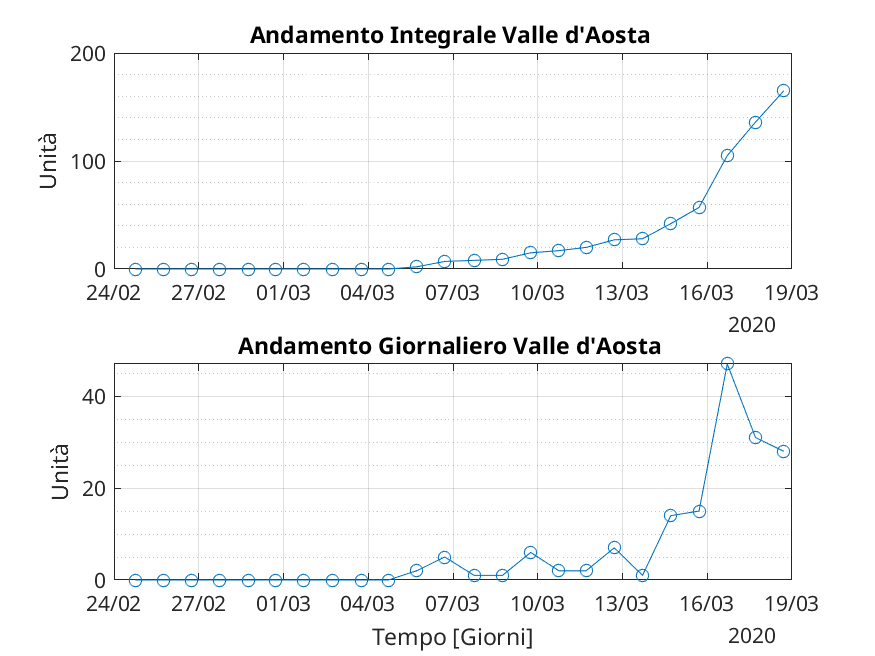
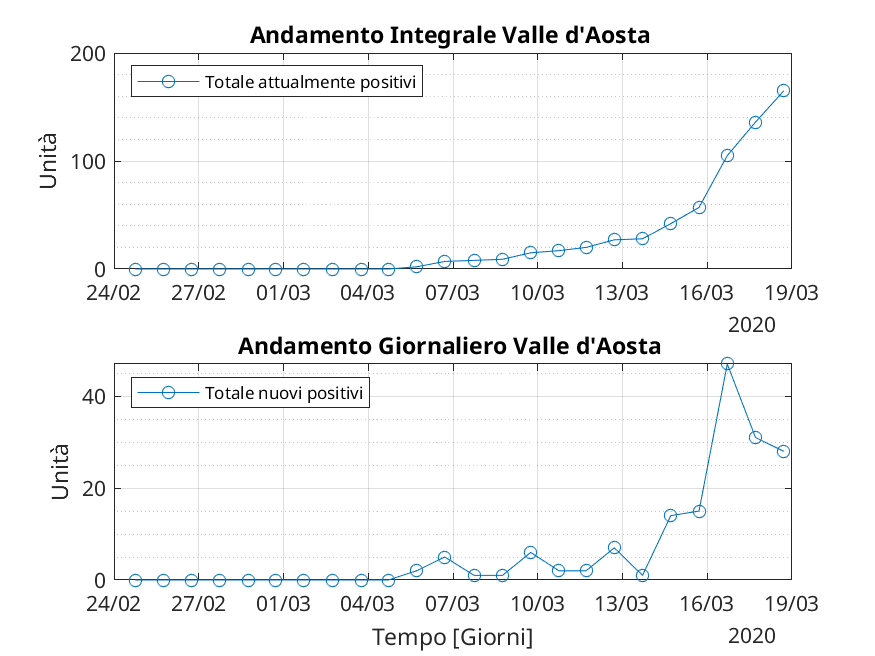
18-03-2020

Changed region(s): [[0.1851, 0.0915, 0.4937, 0.1524], [0.1851, 0.5793, 0.432, 0.6098]]

diff --git a/plotCOVID.m b/plotCOVID.m
@@ -54,6 +54,7 @@ plot (nazionale_data, nazionale_nuoviPos,'-o')
 title ('Andamento giornaliero Nazionale')
 xlabel('Tempo [Giorni]') 
 ylabel('Unità')
+legend("Totale nuovi positivi",'Location','northwest')
 grid on
 grid minor
 
@@ -96,6 +97,7 @@ for i = 1:dim
     title (sprintf('Andamento Integrale %s ', target))
     %xlabel('Tempo [Giorni]')
     ylabel('Unità')
+    legend("Totale attualmente positivi",'Location','northwest')
     grid on
     grid minor
     
@@ -104,6 +106,7 @@ for i = 1:dim
     title (sprintf('Andamento Giornaliero %s ', target))
     xlabel('Tempo [Giorni]')
     ylabel('Unità')
+    legend("Totale nuovi positivi",'Location','northwest')
     grid on
     grid minor
     

diff --git a/README.md b/README.md
@@ -6,12 +6,8 @@ Grafici costruiti con l'uso di uno script MATLAB -> plotCOVID.m
 
 ```diff
 - 18/03/2020: dati Regione Campania non pervenuti.
-- 18/03/2020: dati Provincia di Parma non pervenuti.
-- 17/03/2020: dati Provincia di Rimini non aggiornati.
-- 16/03/2020: dati P.A. Trento e Puglia non pervenuti.
 - 11/03/2020: dati Regione Abruzzo non pervenuti.
 - 10/03/2020: dati Regione Lombardia parziali.
-- 07/03/2020: dati Brescia +300 esiti positivi
 ```
 
 ![](Grafici/Nazionale.png)
